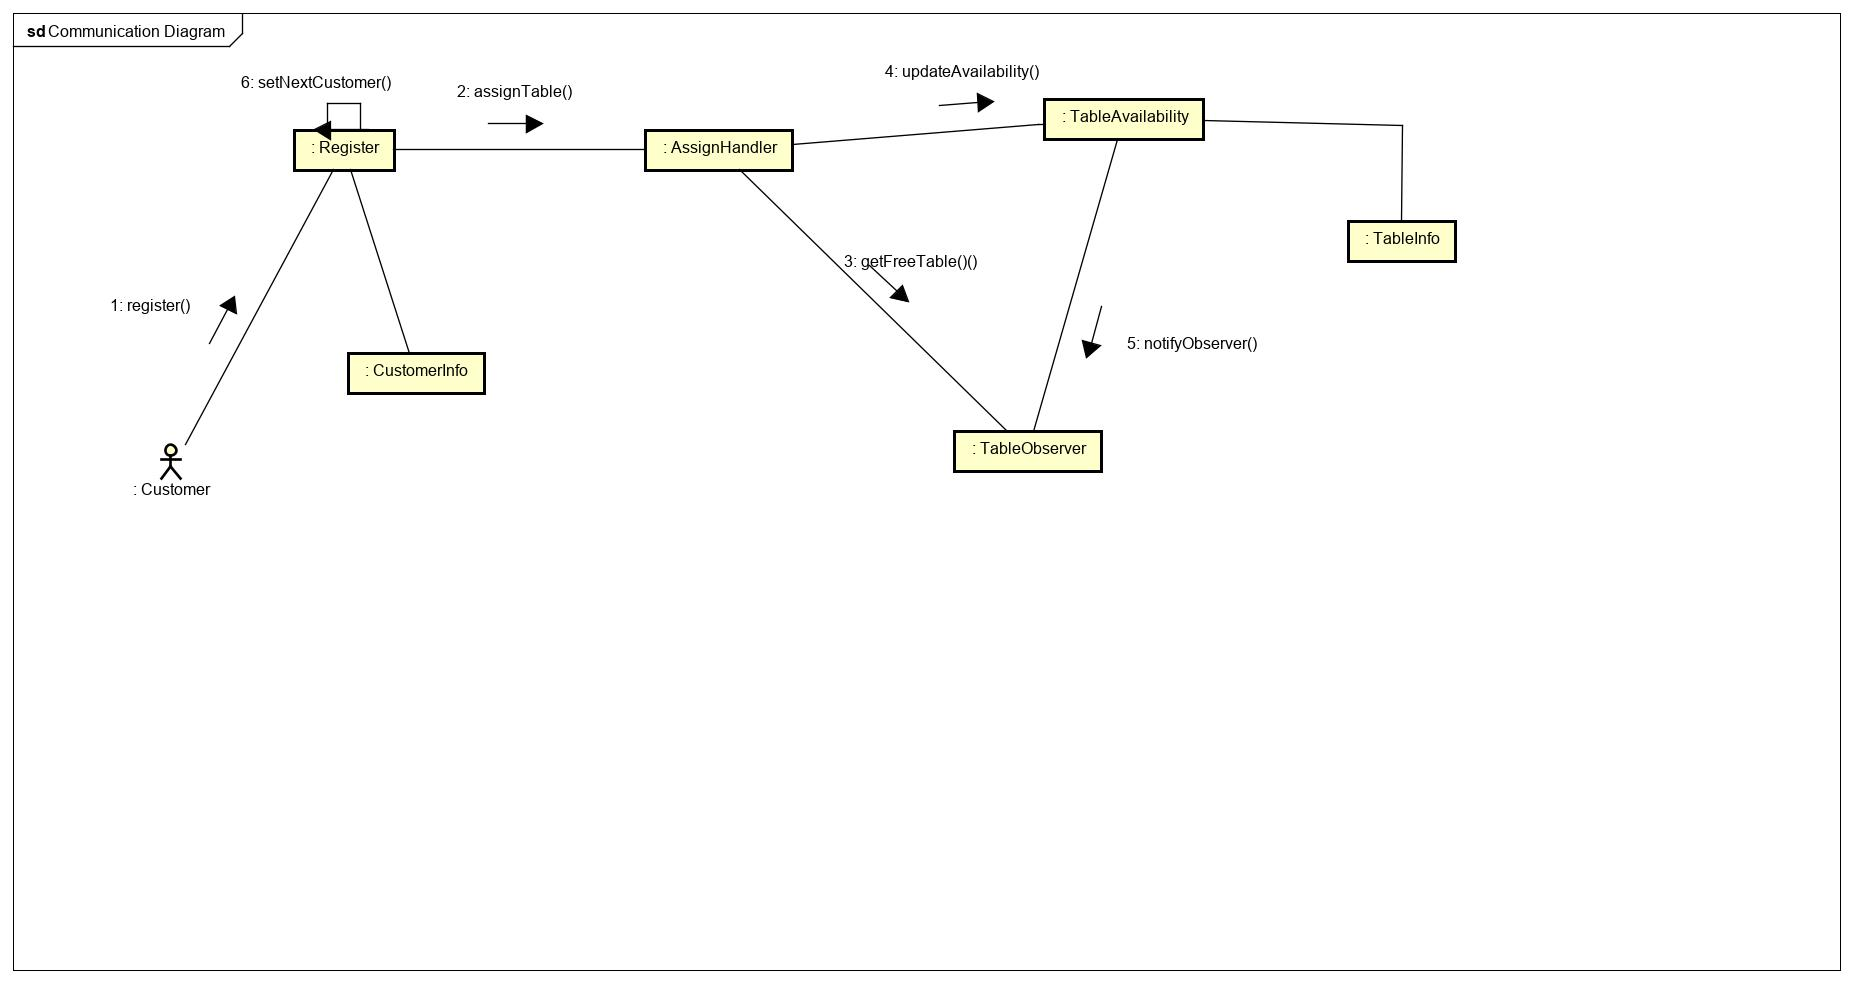
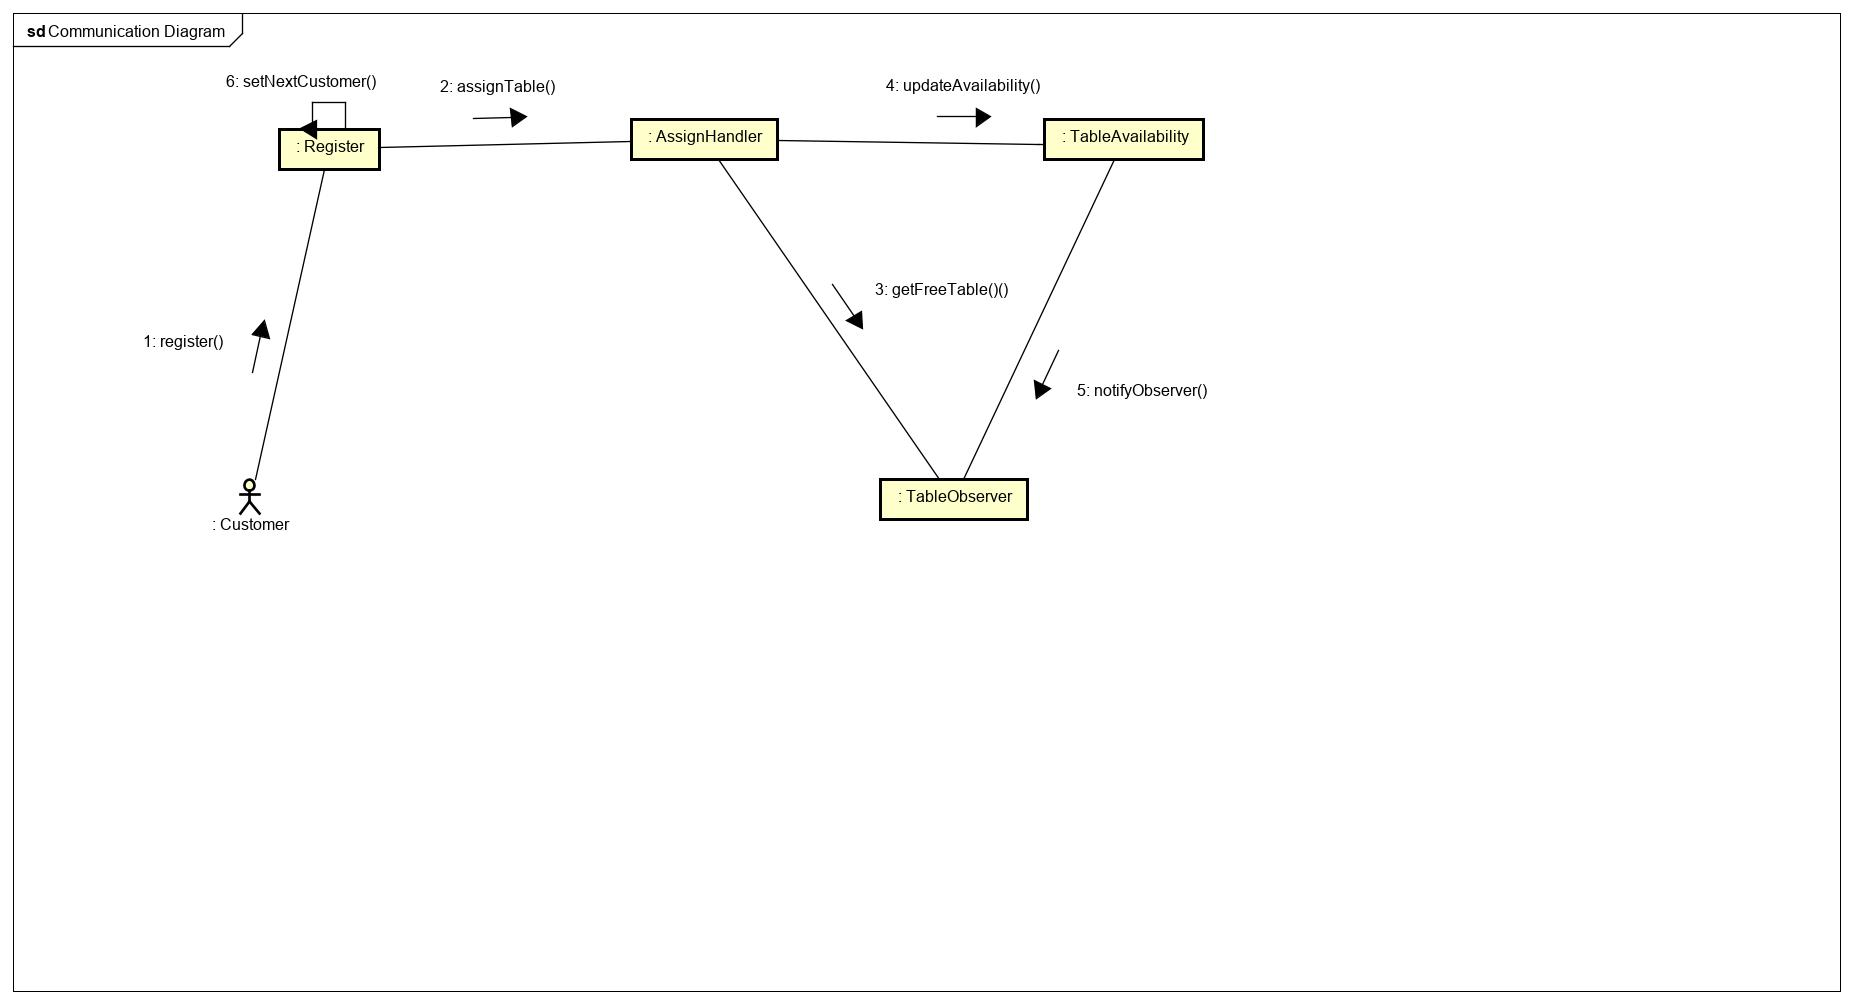
Lab4 modified diagram

diff --git a/lab4/README.md b/lab4/README.md
@@ -1,0 +1,83 @@
+---
+***Class:*** Register
+***Responsibilities:***
+1.	Knows list of customers in line.
+2.	Registers the customer information with customer information.
+3.	Removes customer from the queue.
+
+***Collaborators:***
+- AssignHandler
+- CustomerInfo
+---
+---
+***Class:*** AssignHandler
+***Responsibilities:***
+1.	Decides on the best table size for the customer.
+2.	Assigns table to the customer
+3.	Assigns table to next customer in line.
+
+***Collaborators:***
+- TableObserver
+- TableAvailability
+- CustomerInfo
+
+---
+---
+
+***Class:*** TableObserver
+***Responsibilities:***
+1.	Knows list of free tables.
+2.	Observes the table availability.
+3.	Provides free table to AssignHandler.
+
+***Collaborators:***
+- TableAvailability
+- AssignHandler
+
+---
+---
+
+***Class:*** TableAvailability
+***Responsibilities:***
+1.	Knows list of all tables.
+2.	Notifies the TableObserver with table state.
+3.	Updates the table availability on state change.
+
+***Collaborators:***
+- TableObserver
+
+---
+---
+
+***Class:*** CustomerInfo
+***Responsibilities:***
+1.	Knows customer name.
+2.	Knows customer phone number.
+3.	Knows number of party.
+
+***Collaborators:***
+- Register
+- AssignHandler
+
+---
+---
+
+***Class:*** TableInfo
+***Responsibilities:***
+1.	Knows table id.
+2.	Knows chair count.
+3.	Knows table is free or not.
+
+***Collaborators:***
+- TableAvailability
+
+---
+
+### Design Pattern Used: 
+***Observer pattern***
+TableAvailability object notifies the TableObserver on the free tables available.And the TableObserver updates its state.
+Participants: Here, the subject is TableAvailability and the observer is TableObserver.
+
+***Chain of Responsibility pattern***
+Register class gets the table to be assigned from the AssignHandler and matches it with the customer in line. If customer confirms, the table is assigned to them (first customer in line.) If the customer leaves or the table does not fit, Register class tries to match it with the next customer in line.
+Participants: Here the Client is Customer and the Handler is Register.
